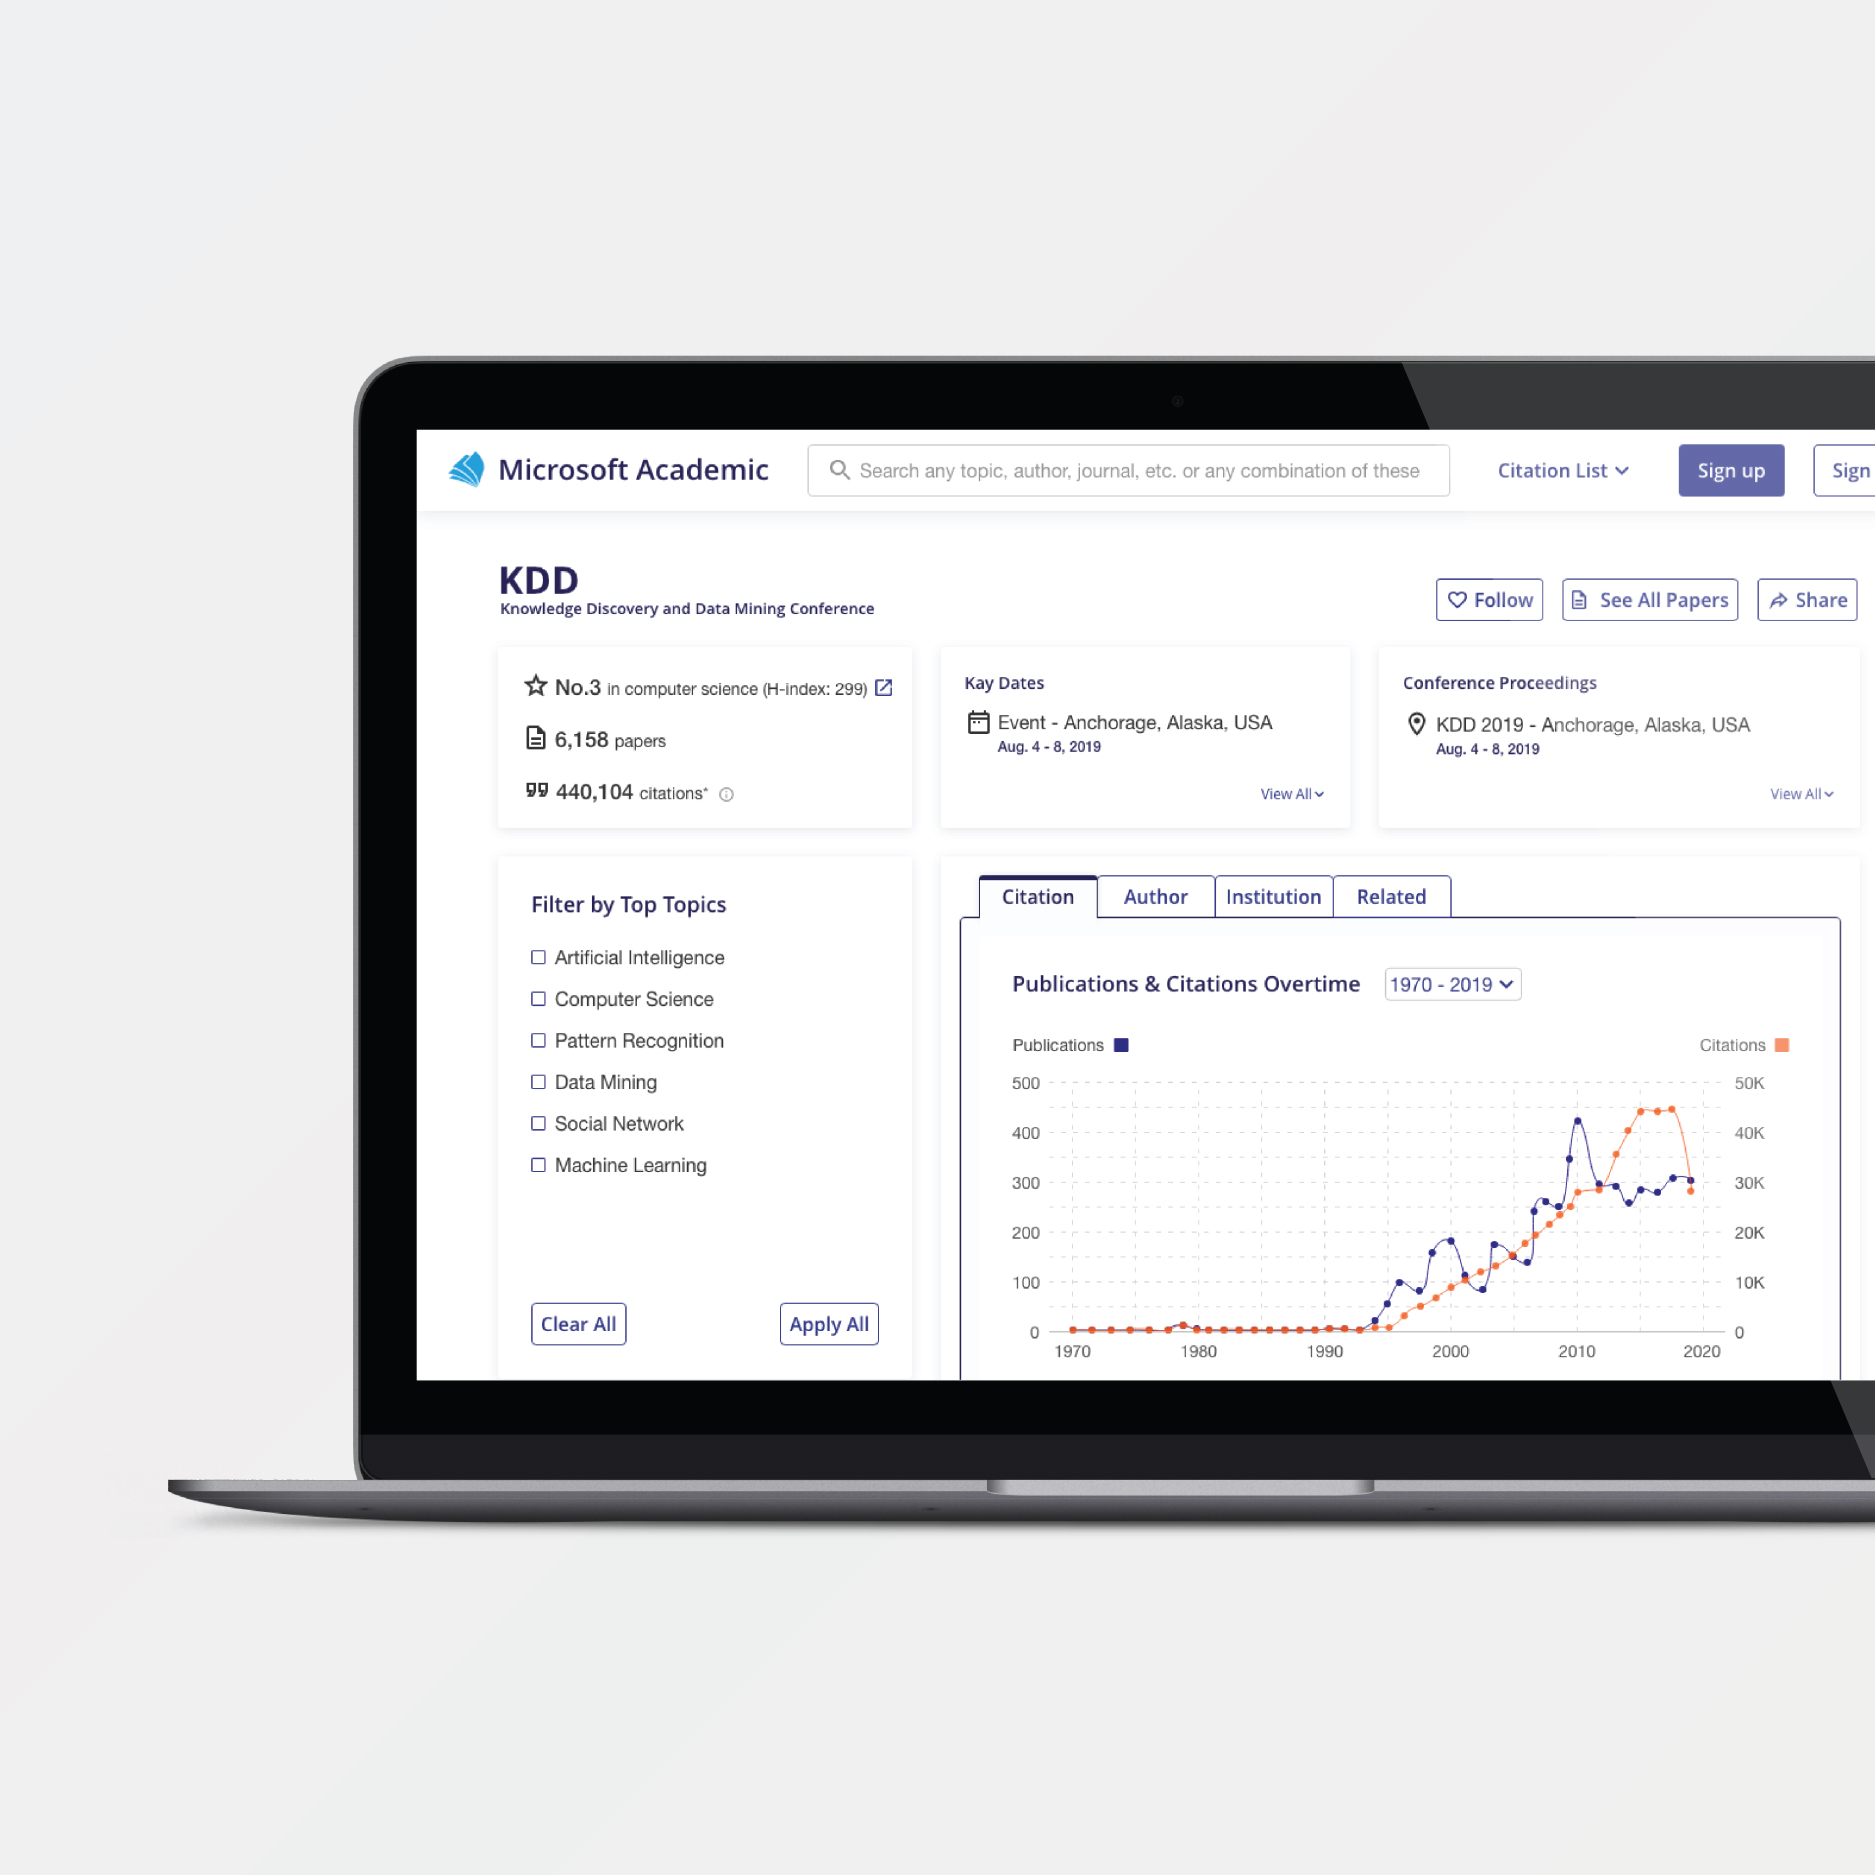
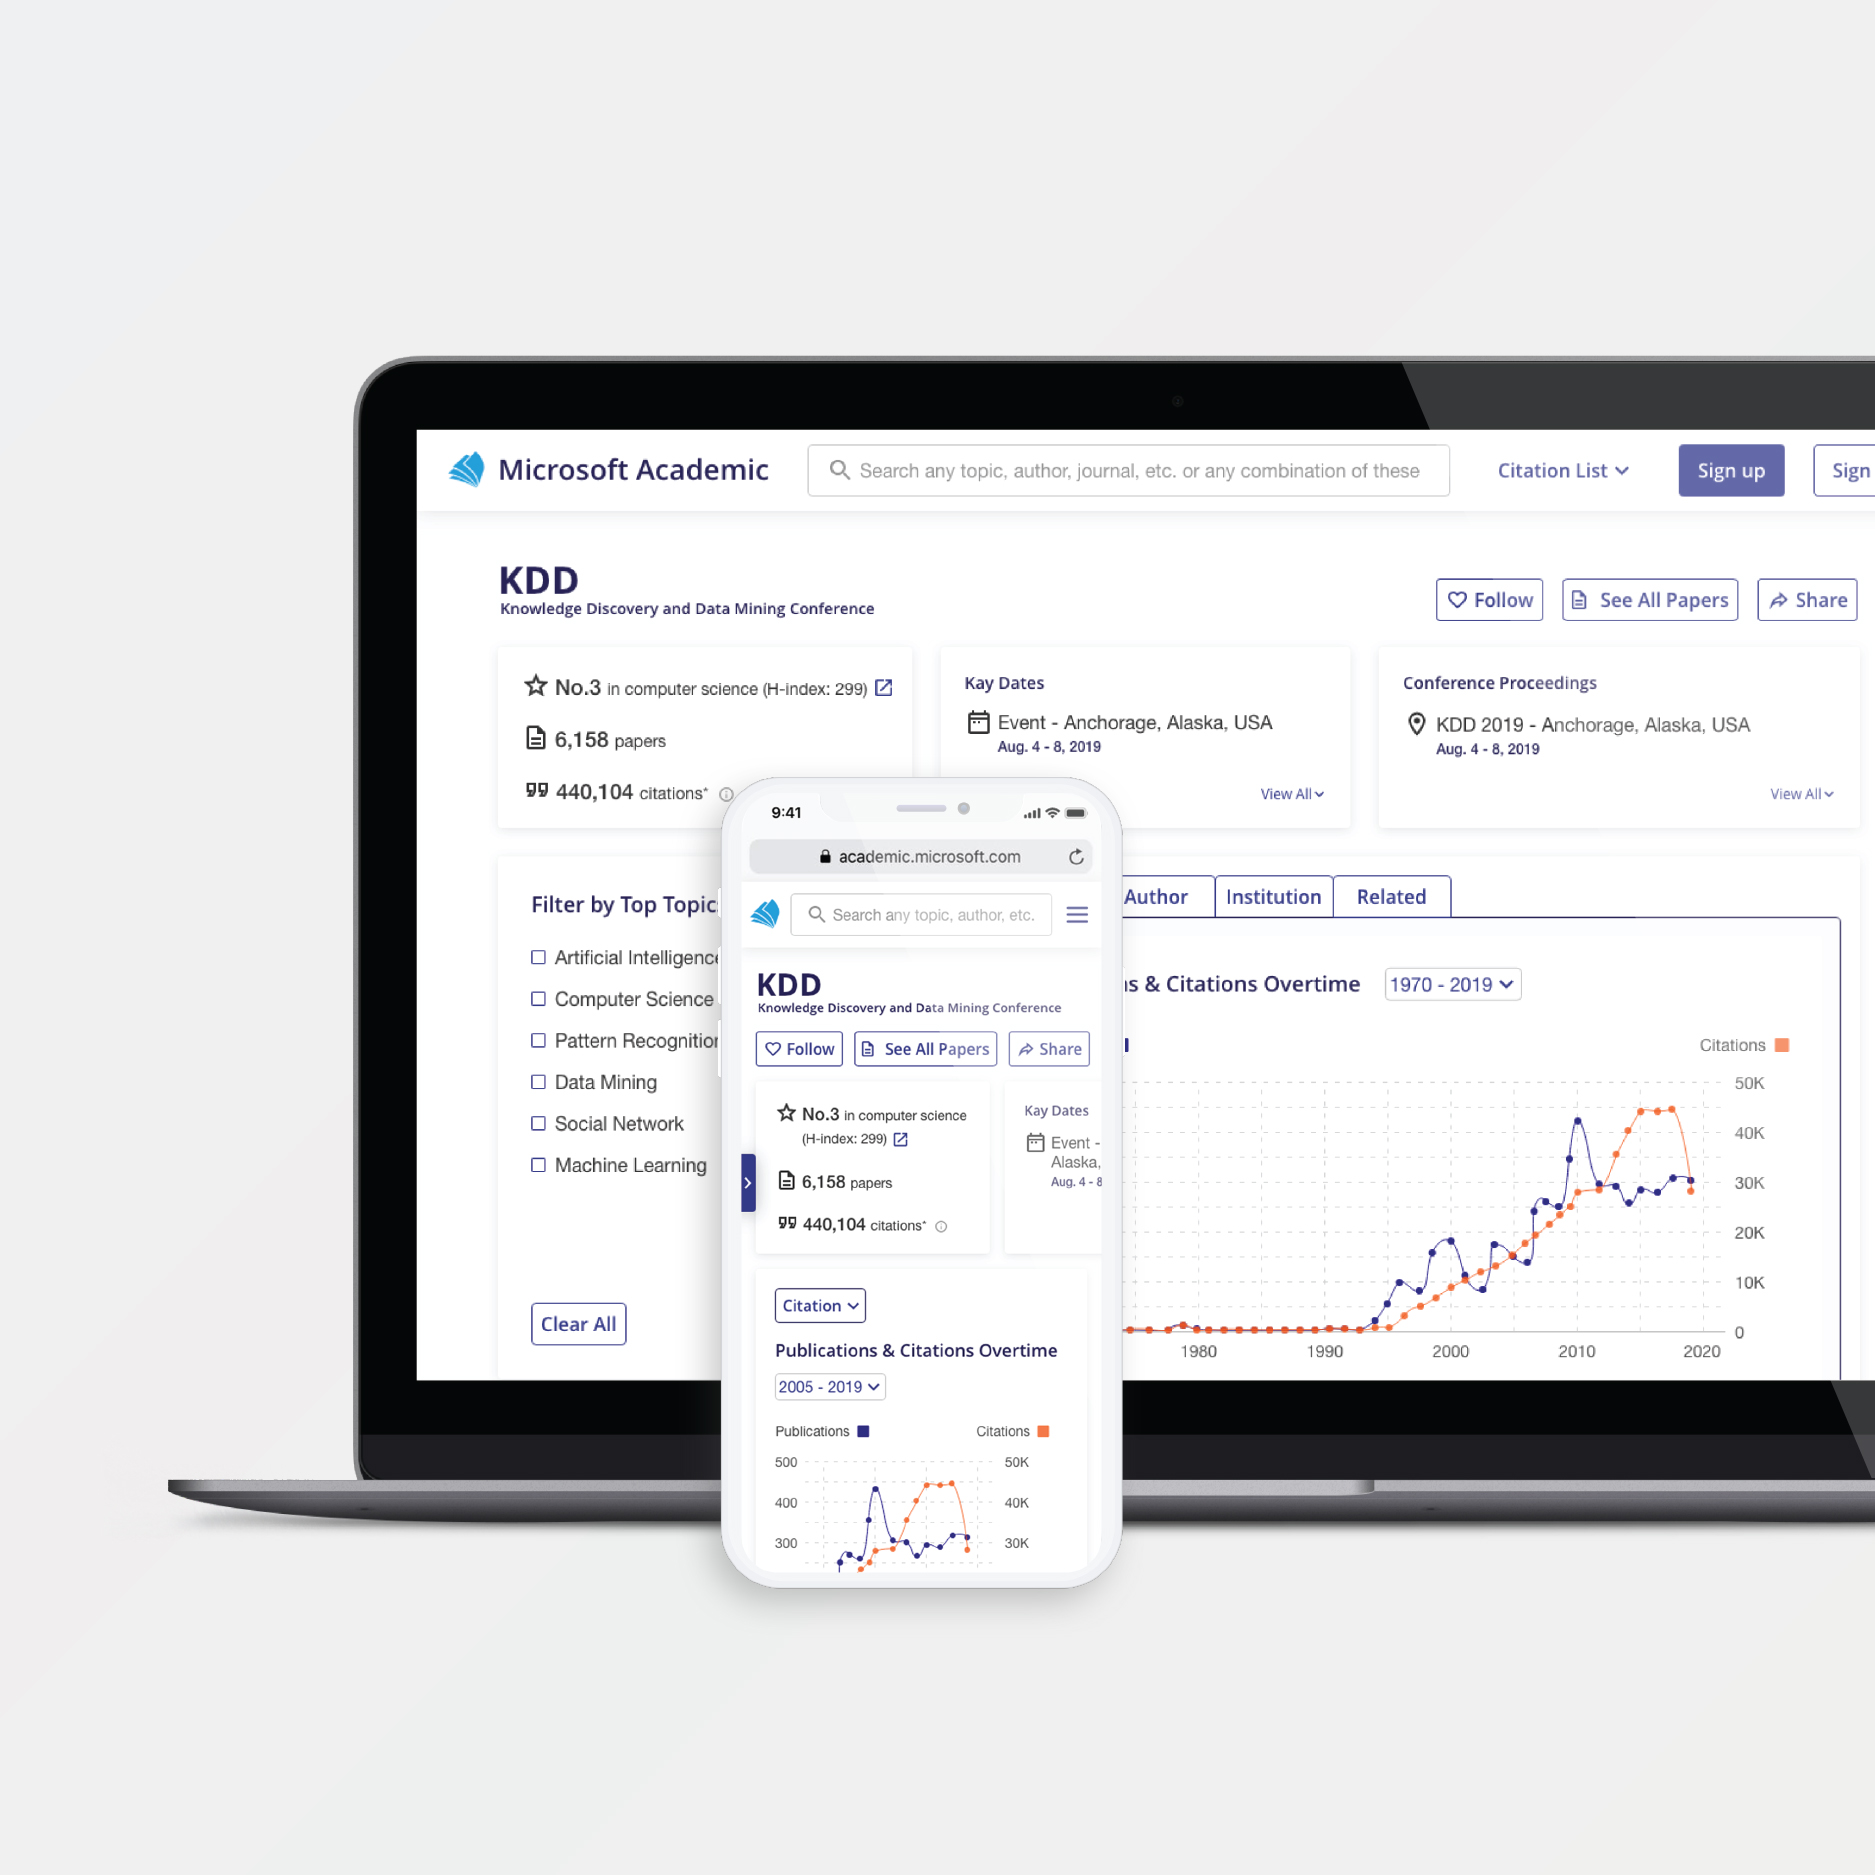
1006-1

Changed region(s): [[0.3712, 0.4331, 0.6187, 0.8661]]

diff --git a/msa.html b/msa.html
@@ -91,7 +91,7 @@
                           </tr>
                           <tr>
                             <td><p><b>Duration</b>:</p></td>
-                            <td><p>Aug. 2019 (6 days)</p></td>
+                            <td><p>Aug. 2019 (6 days) + Sept. 2019 (1 day)</p></td>
                           </tr>
                           <tr>
                             <td><p><b>Practice Areas</b>:</p></td>
@@ -465,8 +465,8 @@
                                         Later, I took mobile usage into consideration and tried to make them more visually comfortable, so a three-column version was 
                                         generated. However, the feature still looked plain. I thought visualizations could enhance engagement, so the third version with 
                                         three visualizations for co-citation, co-authorship, and co-concept top 3 venues was designed. The order of these three could be 
-                                        based on the importance/popularity of the information. Besides, I also refined the titles for each section to make them more 
-                                        precise and concise.
+                                        based on the importance/popularity of the information. Besides, I also refined the titles for each section to make them more precise 
+                                        and concise. Lastly, I tried to integrate them into one so users could interact with the visualization much conveniently.
                                 </p></td>
                               </tr>
                               <tr>
@@ -646,9 +646,8 @@
                               <tr>
                                 <td class="column06"><img src="img/icons_numbers/icons_number-35.png" class="icon_numbers" alt="Number 4"></td>
                                 <td class="column02"><p>
-                                    The last tab was for related visualizations, serving more as a recommendation feature. Here, bars were used to show the values 
-                                    of the similarity with co-citation, co-authorship, and co-concept top 3 venues presented separately in three visualizations. 
-                                    There might be another option of using dots with ranking as x-axis and similarity as y-axis to integrate three charts into one. 
+                                    The last tab was for related visualizations, serving more as a recommendation feature. Here, the values 
+                                    of the similarity with co-citation, co-authorship, and co-concept top 3 venues were presented with dots in one visualization. 
                                 </p></td>
                               </tr>
                               <tr>
@@ -673,10 +672,51 @@
 
 
 
+
+<!-- Design for Mobile View -->
+
+<div id="project_body_section">
+    <div class="project_body_overlay02">
+      <div class="container">
+          <div class="row">
+            <div class="col-sm-12"> 
+                <div class="item04" id="msa_page">
+
+                <h3>Design for Mobile View</h3>
+               <p>
+                One month later, I revisited this project and came up with a mobile version for the responsive website. I tried to visualize the idea by 
+                creating prototypes presented below. In this version, users could slide cards to explore information, and tap the left and right side of 
+                the visualization to go a decade earlier or later.
+               </p>  
+
+                </div>
+            </div>
+        </div>
+
+
+        <img src="img/msa_picture/gif/ma_mobile_view.gif" class="mobile_project_overview_picture_smaller" alt="Mobile View for Microsoft Academic">
+
+    
+    </div>
+  </div>
+
+</div>
+
+
+
+
+
+
+
+
+
+
+
+
 <!-- Hi-fi Prototypes  -->
 
 <div id="project_body_section">
-        <div class="project_body_overlay02">
+        <div class="project_body_overlay01">
           <div class="container">
               <div class="row">
                       <div class="item02" id="msa_page">
@@ -690,7 +730,7 @@
                   <div class="col-sm-12"> 
                       <div class="item02" id="msa_page">
 
-                  <iframe class="prototype_video" src="https://www.youtube.com/embed/XDlsjnw7FaA" frameborder="0" allow="autoplay; encrypted-media" allowfullscreen></iframe>
+                  <iframe class="prototype_video" src="https://www.youtube.com/embed/sKWleW05rcM" frameborder="0" allow="autoplay; encrypted-media" allowfullscreen></iframe>
 
                 </div>
               </div>
@@ -714,7 +754,7 @@
 <!-- Reflection -->
 
 <div id="project_body_section">
-        <div class="project_body_overlay01">
+        <div class="project_body_overlay02">
           <div class="container">
               <div class="row">
                       <div class="item02" id="msa_page">
